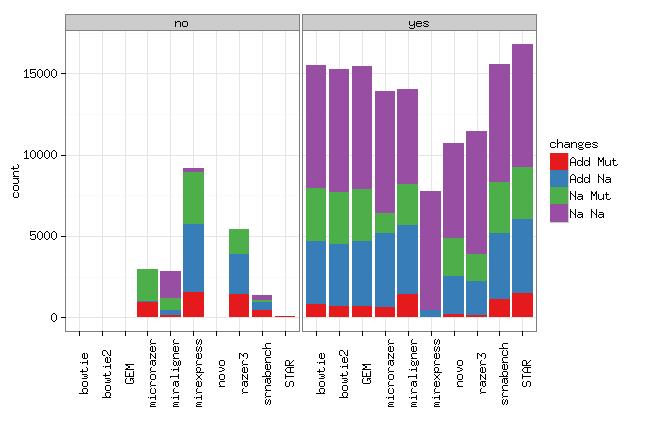
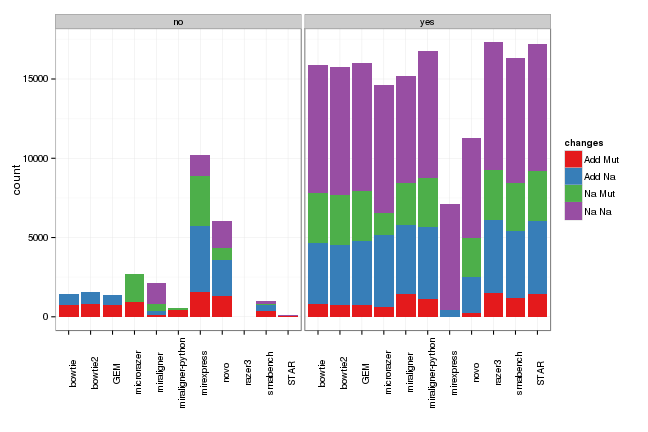
New tools

diff --git a/mirna/mirannotation/stats.md b/mirna/mirannotation/stats.md
@@ -1,7 +1,7 @@
 ---
 title: "miRNA annotation"
 author: "Lorena Pantano"
-date: "18/02/2015"
+date: "10/02/2015"
 output:
   knitrBootstrap::bootstrap_document:
     theme: readable
@@ -14,30 +14,111 @@ output:
 ---
 
 
+```r
+library(knitr)
+library(rmarkdown)
+library(knitrBootstrap)
+
+opts_chunk$set(tidy = TRUE, highlight = T, figalign = "center", fig.height = 6, 
+    fig.width = 10, message = F, error = F, warning = F, bootstrap.show.code = FALSE)
+```
 
 
 
+```r
+data <- read.table("stats", skip = 1)
+data$V2 <- as.character(data$V2)
+data$V4 <- as.character(data$V4)
+data$V5 <- data$V5/abs(data$V5)
+data$V5[data$V5 == 1] <- "Na"
+data$V5[data$V5 == -1] <- "Add"
+data$V6 <- data$V6/abs(data$V6)
+data$V6[data$V6 == 1] <- "Na"
+data$V6[data$V6 == -1] <- "Mut"
+data$changes <- paste(data$V5, data$V6)
+data$TP <- apply(data[, c(2, 4)], 1, function(x) {
+    v <- grep(x[1], x[2], ignore.case = T)
+    if (length(v) == 0) {
+        v <- 0
+    }
+    return(v)
+})
+data$TPmirna <- apply(data[, c(2, 4)], 1, function(x) {
+    h1 = unlist(strsplit(x[1], split = "-"))[1:3]
+    h2 = unlist(strsplit(x[2], split = "-"))[1:3]
+    v <- grep(paste0(h1, collapse = "-"), paste0(h2, collapse = "-"), ignore.case = T)
+    if (length(v) == 0) {
+        v <- 0
+    }
+    return(v)
+})
+```
 
 # Mapped
 Proportion of mapped and no-mapped sequences
-${image?fileName=mapped%2Dmir%2D1%2Epng&align=none&scale=100}
+
+```r
+library(ggplot2)
+library(dplyr)
+dt = data %>% group_by(V8, V3) %>% summarise(total = n()) %>% as_data_frame()
+ggplot(dt, aes(x = V8, y = total, fill = V3)) + geom_bar(stat = "identity") + 
+    geom_text(aes(label = total), vjust = -1) + theme_bw() + labs(x = "") + 
+    ylim(0, max(dt$total) + 2000) + scale_fill_brewer("mapped", palette = "Set1") + 
+    facet_wrap(~V3, scales = "free_y", ncol = 1) + theme(axis.text.x = element_text(angle = 90))
+```
+
+![plot of chunk mapped-mir](figure/mapped-mir-1.png) 
 
 
 # Size effect
 How size affects the alignments
-${image?fileName=size%2Dmir%2D1%2Epng&align=none&scale=100}
+
+```r
+ggplot(data, aes(V8, V7, fill = V3)) + geom_boxplot() + theme_bw() + labs(x = "") + 
+    scale_fill_brewer("mapped", palette = "Set1")
+```
+
+![plot of chunk size-mir](figure/size-mir-1.png) 
 
 # Isomirs effect
 How changes affect the alignment
-${image?fileName=iso%2Dmir%2D1%2Epng&align=none&scale=100}
+
+```r
+ggplot(data, aes(V8, fill = changes)) + geom_bar() + theme_bw() + labs(x = "") + 
+    facet_wrap(~V3) + scale_fill_brewer("changes", palette = "Set1") + theme(axis.text.x = element_text(angle = 90))
+```
+
+![plot of chunk iso-mir](figure/iso-mir-1.png) 
 
 
 # Specificity at precursor level
 How many were assigned to only the correct miRNA. Normally miRNA can map to other miRNAs that are from the same family/precursor. "Red" will be sequences mapping to multiple miRNAs.
-${image?fileName=sp%2Dprecursor%2D1%2Epng&align=none&scale=100}
+
+```r
+dt = data %>% filter(V3 == "yes") %>% group_by(V8, TP) %>% summarise(total = n()) %>% 
+    as_data_frame()
+ggplot(dt, aes(x = V8, y = total, fill = factor(TP))) + geom_bar(stat = "identity") + 
+    geom_text(aes(label = total), vjust = -1, size = 3) + theme_bw() + labs(x = "") + 
+    ylim(0, max(dt$total) + 200) + scale_fill_brewer(guide = FALSE, "correct", 
+    palette = "Set1") + theme(axis.text.x = element_text(angle = 90)) + facet_wrap(~TP, 
+    scales = "free_y")
+```
+
+![plot of chunk sp-precursor](figure/sp-precursor-1.png) 
 
 
 # Specificity at miRNA level
 
-${image?fileName=sp%2Dmir%2D1%2Epng&align=none&scale=100}
+
+```r
+dt = data %>% filter(V3 == "yes") %>% group_by(V8, TPmirna) %>% summarise(total = n()) %>% 
+    as_data_frame()
+ggplot(dt, aes(x = V8, y = total, fill = factor(TPmirna))) + geom_bar(stat = "identity") + 
+    geom_text(aes(label = total), vjust = -1, size = 3) + theme_bw() + labs(x = "") + 
+    ylim(0, max(dt$total) + 200) + scale_fill_brewer(guide = FALSE, "correct", 
+    palette = "Set1") + theme(axis.text.x = element_text(angle = 90)) + facet_wrap(~TPmirna, 
+    scales = "free_y")
+```
+
+![plot of chunk sp-mir](figure/sp-mir-1.png) 
 
